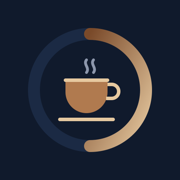
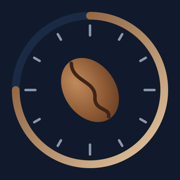
App-Symbol: Bohne im Zifferblatt (Entwurf C)

diff --git a/icons/entwuerfe/vorschau.html b/icons/entwuerfe/vorschau.html
@@ -1,0 +1,60 @@
+<title>Halbwert App-Symbol</title>
+<meta name="claude:viewport-fit-sides" content="cover">
+<link rel="stylesheet" href="https://fonts.googleapis.com/css2?family=Instrument+Serif&family=IBM+Plex+Sans:wght@400;600&display=swap">
+<style>
+/* Layout: drei Symbol-Karten, jeweils groß und in Home-Bildschirm-Größe. Bewusst nur dunkel. */
+:root{color-scheme:dark;--bg:#0B1322;--card:#101A2C;--tx:#EFE6DA;--mu:#8D97AC;--ac:#E6C9A0;--f-d:"Instrument Serif",Georgia,serif;--f-u:"IBM Plex Sans",system-ui,sans-serif}
+body{background:var(--bg);color:var(--tx);font-family:var(--f-u);padding-left:max(16px,env(safe-area-inset-left,0px));padding-right:max(16px,env(safe-area-inset-right,0px));padding-block:28px 48px}
+main{max-width:1080px;margin:0 auto;display:flex;flex-direction:column;gap:24px}
+h1{font-family:var(--f-d);font-weight:400;font-size:clamp(32px,6vw,48px);margin:0}
+h1 i{color:var(--ac)}
+p{margin:0;color:var(--mu);max-width:60ch}
+.grid{display:grid;grid-template-columns:repeat(auto-fit,minmax(260px,1fr));gap:20px}
+figure{margin:0;background:var(--card);border:1px solid #24344F;border-radius:20px;padding:18px;display:flex;flex-direction:column;gap:16px}
+.big svg{width:100%;max-width:280px;height:auto;display:block;margin:0 auto;border-radius:22.5%}
+.home{display:flex;flex-direction:column;align-items:center;gap:6px;padding:14px;border-radius:14px;background:linear-gradient(160deg,#2B3E63,#5A3B2A)}
+.tile svg{width:64px;height:64px;display:block;border-radius:22.5%;box-shadow:0 4px 10px #0006}
+.home span{font-size:12px;color:#fff}
+figcaption{display:flex;flex-direction:column;gap:4px}
+figcaption b{font-size:17px}
+figcaption span{font-size:14px;color:var(--mu)}
+</style>
+<main><h1>Halb<i>wert</i> · App-Symbol</h1><p>Drei Entwürfe mit Bohne und Uhrzeit. Oben jeweils groß, darunter so groß wie auf dem Home-Bildschirm.</p><div class="grid"><figure><div class="big"><svg xmlns="http://www.w3.org/2000/svg" viewBox="0 0 512 512"><defs><radialGradient id="ab" cx=".35" cy=".3" r=".9"><stop offset="0" stop-color="#C08A5C"/><stop offset=".6" stop-color="#8A5733"/><stop offset="1" stop-color="#5A341D"/></radialGradient><linearGradient id="aa" x1="0" y1="0" x2="1" y2="1"><stop offset="0" stop-color="#7A4A2A"/><stop offset="1" stop-color="#E6C9A0"/></linearGradient></defs>
+<rect fill="#101A2C"/>
+<g transform="translate(256 256) rotate(-35)"><ellipse rx="130" ry="176" fill="url(#ab)"/><path d="M0 -166 C -52 -90 52 -22 0 44 C -44 100 34 134 0 166" fill="none" stroke="#3E2416" stroke-width="14" stroke-linecap="round" opacity=".55"/></g>
+<g stroke="#E6C9A0" stroke-linecap="round"><line x1="256" y1="256" x2="256" y2="150" stroke-width="18"/><line x1="256" y1="256" x2="322" y2="296" stroke-width="22"/></g>
+<g fill="#E6C9A0" opacity=".85"><circle cx="256" cy="118" r="7"/><circle cx="394" cy="256" r="7"/><circle cx="256" cy="394" r="7"/><circle cx="118" cy="256" r="7"/></g>
+<circle cx="256" cy="256" r="15" fill="#3E2416" stroke="#E6C9A0" stroke-width="6"/>
+</svg>
+</div><div class="home"><div class="tile"><svg xmlns="http://www.w3.org/2000/svg" viewBox="0 0 512 512"><defs><radialGradient id="asb" cx=".35" cy=".3" r=".9"><stop offset="0" stop-color="#C08A5C"/><stop offset=".6" stop-color="#8A5733"/><stop offset="1" stop-color="#5A341D"/></radialGradient><linearGradient id="asa" x1="0" y1="0" x2="1" y2="1"><stop offset="0" stop-color="#7A4A2A"/><stop offset="1" stop-color="#E6C9A0"/></linearGradient></defs>
+<rect fill="#101A2C"/>
+<g transform="translate(256 256) rotate(-35)"><ellipse rx="130" ry="176" fill="url(#asb)"/><path d="M0 -166 C -52 -90 52 -22 0 44 C -44 100 34 134 0 166" fill="none" stroke="#3E2416" stroke-width="14" stroke-linecap="round" opacity=".55"/></g>
+<g stroke="#E6C9A0" stroke-linecap="round"><line x1="256" y1="256" x2="256" y2="150" stroke-width="18"/><line x1="256" y1="256" x2="322" y2="296" stroke-width="22"/></g>
+<g fill="#E6C9A0" opacity=".85"><circle cx="256" cy="118" r="7"/><circle cx="394" cy="256" r="7"/><circle cx="256" cy="394" r="7"/><circle cx="118" cy="256" r="7"/></g>
+<circle cx="256" cy="256" r="15" fill="#3E2416" stroke="#E6C9A0" stroke-width="6"/>
+</svg>
+</div><span>Halbwert</span></div><figcaption><b>A · Bohnenuhr</b><span>Die Bohne ist das Zifferblatt, die Zeiger liegen auf der Kerbe.</span></figcaption></figure><figure><div class="big"><svg xmlns="http://www.w3.org/2000/svg" viewBox="0 0 512 512"><defs><radialGradient id="bb" cx=".35" cy=".3" r=".9"><stop offset="0" stop-color="#C08A5C"/><stop offset=".6" stop-color="#8A5733"/><stop offset="1" stop-color="#5A341D"/></radialGradient><linearGradient id="ba" x1="0" y1="0" x2="1" y2="1"><stop offset="0" stop-color="#7A4A2A"/><stop offset="1" stop-color="#E6C9A0"/></linearGradient></defs>
+<rect fill="#101A2C"/>
+<g transform="translate(256 200) scale(.72) translate(-256 -256)"><g transform="translate(256 256) rotate(-35)"><ellipse rx="118" ry="160" fill="url(#bb)"/><path d="M0 -150 C -46 -80 46 -20 0 40 C -40 90 30 120 0 150" fill="none" stroke="#3E2416" stroke-width="16" stroke-linecap="round"/></g></g>
+<text x="256" y="430" text-anchor="middle" font-family="Georgia, 'Times New Roman', serif" font-size="112" fill="#E6C9A0" letter-spacing="-2">22:30</text>
+</svg>
+</div><div class="home"><div class="tile"><svg xmlns="http://www.w3.org/2000/svg" viewBox="0 0 512 512"><defs><radialGradient id="bsb" cx=".35" cy=".3" r=".9"><stop offset="0" stop-color="#C08A5C"/><stop offset=".6" stop-color="#8A5733"/><stop offset="1" stop-color="#5A341D"/></radialGradient><linearGradient id="bsa" x1="0" y1="0" x2="1" y2="1"><stop offset="0" stop-color="#7A4A2A"/><stop offset="1" stop-color="#E6C9A0"/></linearGradient></defs>
+<rect fill="#101A2C"/>
+<g transform="translate(256 200) scale(.72) translate(-256 -256)"><g transform="translate(256 256) rotate(-35)"><ellipse rx="118" ry="160" fill="url(#bsb)"/><path d="M0 -150 C -46 -80 46 -20 0 40 C -40 90 30 120 0 150" fill="none" stroke="#3E2416" stroke-width="16" stroke-linecap="round"/></g></g>
+<text x="256" y="430" text-anchor="middle" font-family="Georgia, 'Times New Roman', serif" font-size="112" fill="#E6C9A0" letter-spacing="-2">22:30</text>
+</svg>
+</div><span>Halbwert</span></div><figcaption><b>B · Bohne mit Uhrzeit</b><span>Bohne oben, darunter deine Schlafenszeit als Ziffern.</span></figcaption></figure><figure><div class="big"><svg xmlns="http://www.w3.org/2000/svg" viewBox="0 0 512 512"><defs><radialGradient id="cb" cx=".35" cy=".3" r=".9"><stop offset="0" stop-color="#C08A5C"/><stop offset=".6" stop-color="#8A5733"/><stop offset="1" stop-color="#5A341D"/></radialGradient><linearGradient id="ca" x1="0" y1="0" x2="1" y2="1"><stop offset="0" stop-color="#7A4A2A"/><stop offset="1" stop-color="#E6C9A0"/></linearGradient></defs>
+<rect fill="#101A2C"/>
+<circle cx="256" cy="256" r="212" fill="none" stroke="#1B2A44" stroke-width="22"/>
+<path d="M256 44 A212 212 0 1 1 44 256" fill="none" stroke="url(#ca)" stroke-width="22" stroke-linecap="round"/>
+<g stroke="#8D97AC" stroke-width="7" stroke-linecap="round"><line x1="256.0" y1="72.0" x2="256.0" y2="100.0"/><line x1="348.0" y1="96.7" x2="339.0" y2="112.2"/><line x1="415.3" y1="164.0" x2="399.8" y2="173.0"/><line x1="440.0" y1="256.0" x2="412.0" y2="256.0"/><line x1="415.3" y1="348.0" x2="399.8" y2="339.0"/><line x1="348.0" y1="415.3" x2="339.0" y2="399.8"/><line x1="256.0" y1="440.0" x2="256.0" y2="412.0"/><line x1="164.0" y1="415.3" x2="173.0" y2="399.8"/><line x1="96.7" y1="348.0" x2="112.2" y2="339.0"/><line x1="72.0" y1="256.0" x2="100.0" y2="256.0"/><line x1="96.7" y1="164.0" x2="112.2" y2="173.0"/><line x1="164.0" y1="96.7" x2="173.0" y2="112.2"/></g>
+<g transform="translate(256 256) scale(.62) translate(-256 -256)"><g transform="translate(256 256) rotate(-35)"><ellipse rx="118" ry="160" fill="url(#cb)"/><path d="M0 -150 C -46 -80 46 -20 0 40 C -40 90 30 120 0 150" fill="none" stroke="#3E2416" stroke-width="16" stroke-linecap="round"/></g></g>
+</svg>
+</div><div class="home"><div class="tile"><svg xmlns="http://www.w3.org/2000/svg" viewBox="0 0 512 512"><defs><radialGradient id="csb" cx=".35" cy=".3" r=".9"><stop offset="0" stop-color="#C08A5C"/><stop offset=".6" stop-color="#8A5733"/><stop offset="1" stop-color="#5A341D"/></radialGradient><linearGradient id="csa" x1="0" y1="0" x2="1" y2="1"><stop offset="0" stop-color="#7A4A2A"/><stop offset="1" stop-color="#E6C9A0"/></linearGradient></defs>
+<rect fill="#101A2C"/>
+<circle cx="256" cy="256" r="212" fill="none" stroke="#1B2A44" stroke-width="22"/>
+<path d="M256 44 A212 212 0 1 1 44 256" fill="none" stroke="url(#csa)" stroke-width="22" stroke-linecap="round"/>
+<g stroke="#8D97AC" stroke-width="7" stroke-linecap="round"><line x1="256.0" y1="72.0" x2="256.0" y2="100.0"/><line x1="348.0" y1="96.7" x2="339.0" y2="112.2"/><line x1="415.3" y1="164.0" x2="399.8" y2="173.0"/><line x1="440.0" y1="256.0" x2="412.0" y2="256.0"/><line x1="415.3" y1="348.0" x2="399.8" y2="339.0"/><line x1="348.0" y1="415.3" x2="339.0" y2="399.8"/><line x1="256.0" y1="440.0" x2="256.0" y2="412.0"/><line x1="164.0" y1="415.3" x2="173.0" y2="399.8"/><line x1="96.7" y1="348.0" x2="112.2" y2="339.0"/><line x1="72.0" y1="256.0" x2="100.0" y2="256.0"/><line x1="96.7" y1="164.0" x2="112.2" y2="173.0"/><line x1="164.0" y1="96.7" x2="173.0" y2="112.2"/></g>
+<g transform="translate(256 256) scale(.62) translate(-256 -256)"><g transform="translate(256 256) rotate(-35)"><ellipse rx="118" ry="160" fill="url(#csb)"/><path d="M0 -150 C -46 -80 46 -20 0 40 C -40 90 30 120 0 150" fill="none" stroke="#3E2416" stroke-width="16" stroke-linecap="round"/></g></g>
+</svg>
+</div><span>Halbwert</span></div><figcaption><b>C · Zifferblatt</b><span>Die Bohne in der Mitte, rundherum Stundenstriche und der Ring aus der App.</span></figcaption></figure></div></main>

diff --git a/sw.js b/sw.js
@@ -1,5 +1,5 @@
 // Cache-Version erhöhen, sobald sich App-Dateien ändern, sonst sieht das iPhone die alte Version.
-const CACHE = 'halbwert-v1';
+const CACHE = 'halbwert-v2';
 const SHELL = ['./', 'index.html', 'manifest.webmanifest', 'icons/icon-180.png', 'icons/icon-192.png', 'icons/icon-512.png'];
 
 self.addEventListener('install', (e) => { e.waitUntil(caches.open(CACHE).then((c) => c.addAll(SHELL))); self.skipWaiting(); });
